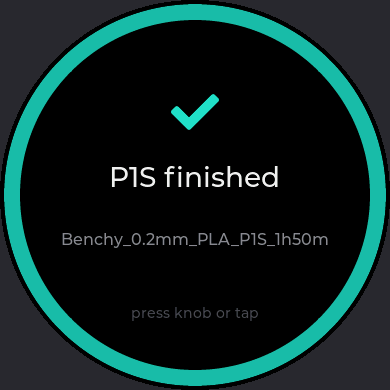
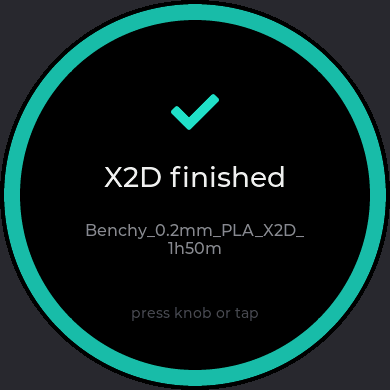
fix(ui): safe AMS label fallback; docs: screenshots with A1 + X2D
- Filament page falls back to the slot number when a report has no AMS id
- PC renderer uses A1 and X2D (dual nozzle, AMS HT) for the README images

Changed region(s): [[0.1538, 0.5538, 0.8308, 0.6769], [0.2769, 0.4, 0.7385, 0.4923]]

diff --git a/test/sim/sim_main.cpp b/test/sim/sim_main.cpp
@@ -57,7 +57,7 @@ static PrinterState fake[2];
 static bool enabled[2] = {true, true};
 PrinterState bambuGet(int i) { return fake[i]; }
 bool bambuEnabled(int i) { return enabled[i]; }
-String bambuName(int i) { return i == 0 ? "P1S" : "A1"; }
+String bambuName(int i) { return i == 0 ? "X2D" : "A1"; }
 void bambuCommand(int, PrinterCmd, int) {}
 const char *gstateName(GState s)
 {
@@ -86,7 +86,13 @@ static void setupFakes()
     a.remainingMin = 83;
     a.layer = 120;
     a.totalLayers = 300;
-    strcpy(a.job, "Benchy_0.2mm_PLA_P1S_1h50m");
+    strcpy(a.job, "Benchy_0.2mm_PLA_X2D_1h50m");
+    a.nozzleCount = 2;
+    a.activeNozzle = 1;
+    a.nozzleL = 219.6;
+    a.nozzleLTarget = 220;
+    a.nozzleR = 38;
+    a.nozzleRTarget = 0;
     a.nozzle = 219.6;
     a.nozzleTarget = 220;
     a.bed = 54;
@@ -96,8 +102,14 @@ static void setupFakes()
     a.chamberFan = 20;
     a.speedLevel = 2;
     a.wifiDbm = -48;
-    a.amsCount = 1;
+    a.amsCount = 4;
     a.ams[0].present = true;
+    a.ams[0].hwId = 0;
+    a.ams[3].present = true; // AMS HT
+    a.ams[3].hwId = 128;
+    a.ams[3].trayCount = 1;
+    a.ams[3].humidityPct = 14;
+    tray(a.ams[3].trays[0], "PA-CF", 0x2B2B2BFF, 90);
     a.ams[0].humidityLevel = 4;
     a.ams[0].humidityPct = 21;
     a.ams[0].tempC = 27.5;
@@ -192,7 +204,7 @@ int main()
     lv_disp_drv_register(&dd);
 
     uiInit();
-    const char *names[] = {"01_overview", "02_p1s_status", "03_p1s_temps", "04_p1s_ams", "05_p1s_health",
+    const char *names[] = {"01_overview", "02_x2d_status", "03_x2d_temps", "04_x2d_ams", "05_x2d_health",
                            "06_a1_status", "07_a1_temps", "08_a1_ams", "09_a1_health", "10_system"};
     for (int i = 0; i < 10; i++)
     {
@@ -204,15 +216,15 @@ int main()
         shot(names[i]);
     }
 
-    uiOnKnob(2); // wrap to P1S status
+    uiOnKnob(2); // wrap to X2D status
     run(400);
     uiOnKnobEvent(KnobEvent::Click); // press the screen: menu
     shot("11_menu_printer");
     uiOnKnobEvent(KnobEvent::DoubleClick);
 
-    uiOnKnob(2); // P1S filament for the single-AMS layout
-    shot("11b_p1s_ams_single");
-    uiShowAlert(0, AlertKind::Finished, "P1S finished", "Benchy_0.2mm_PLA_P1S_1h50m");
+    uiOnKnob(2); // X2D filament: AMS + AMS HT
+    shot("11b_x2d_ams");
+    uiShowAlert(0, AlertKind::Finished, "X2D finished", "Benchy_0.2mm_PLA_X2D_1h50m");
     shot("12_alert_finished");
     uiDismissAlert();
     uiShowAlert(1, AlertKind::Error, "A1 needs attention", "HMS 0300_0100_0001_0007");

diff --git a/src/ui/ui.cpp b/src/ui/ui.cpp
@@ -760,7 +760,7 @@ static void refreshAms(int printer, AmsW *w)
         if (show)
         {
             String info = unit.hwId >= 128 ? String("AMS HT ") + String(unit.hwId - 127)
-                                           : "AMS " + String(unit.hwId + 1);
+                                           : "AMS " + String((unit.hwId >= 0 ? unit.hwId : slot) + 1);
             if (unit.humidityPct >= 0)
                 info += "  " + String(unit.humidityPct) + "% RH";
             else if (unit.humidityLevel >= 0)
